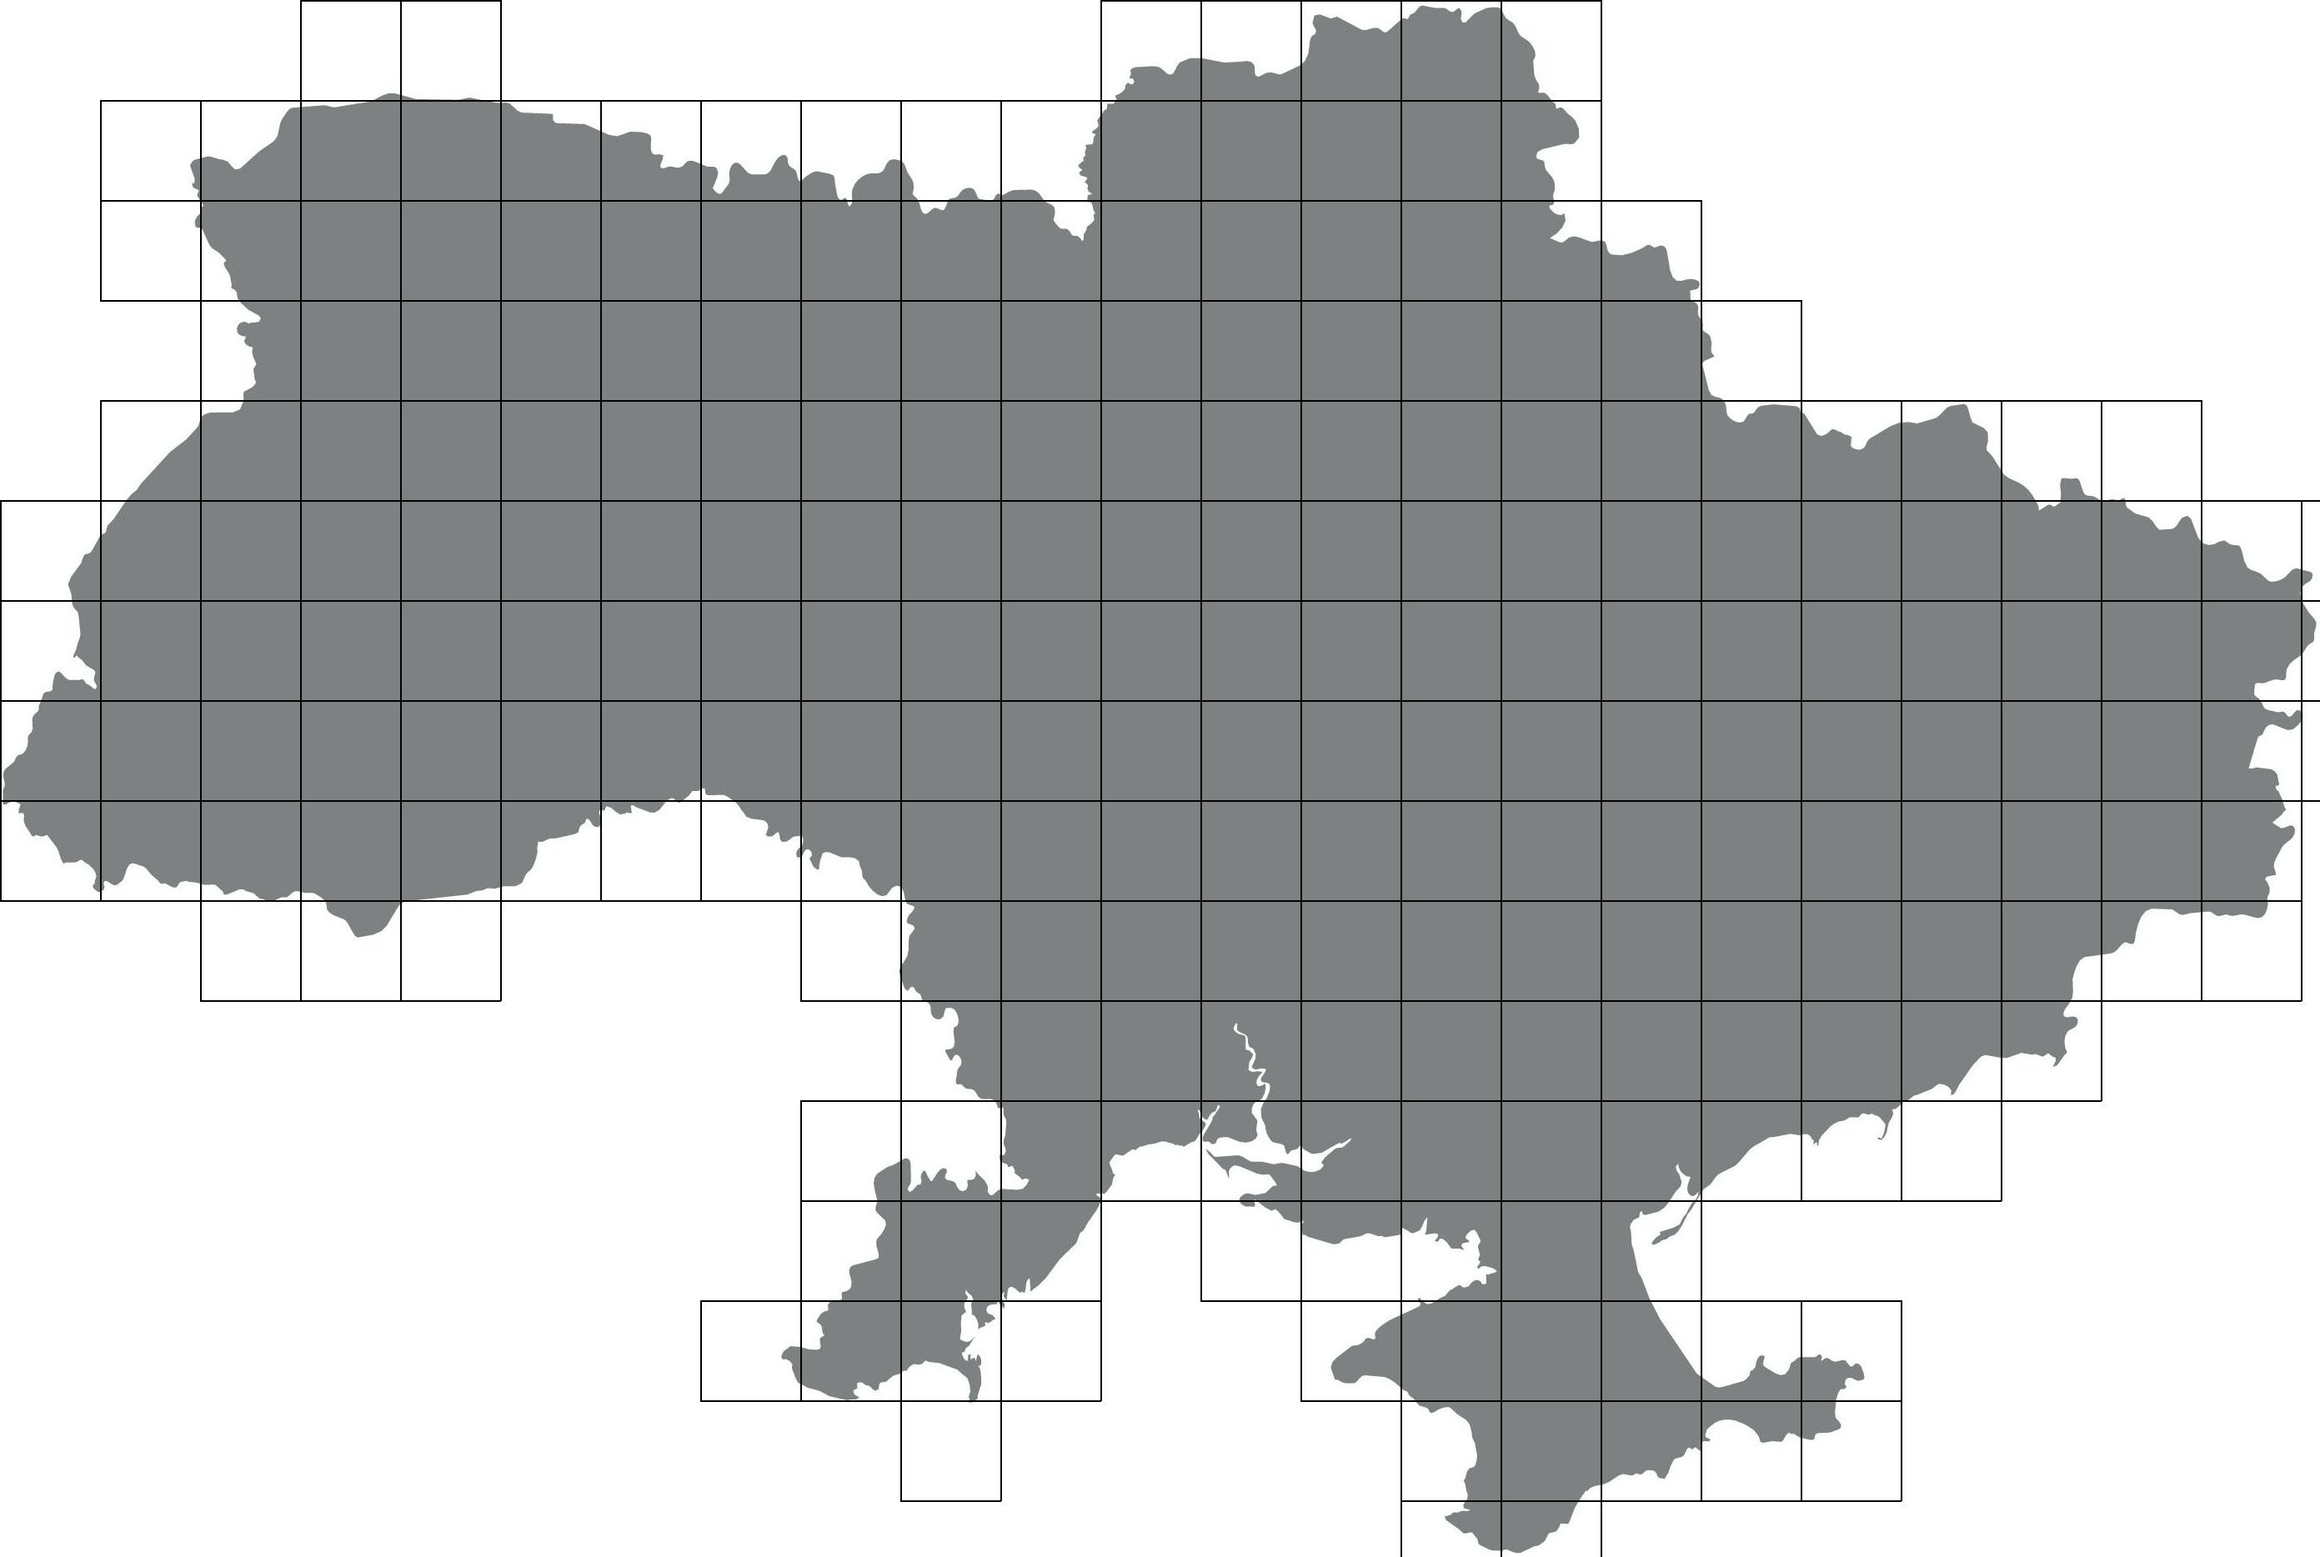
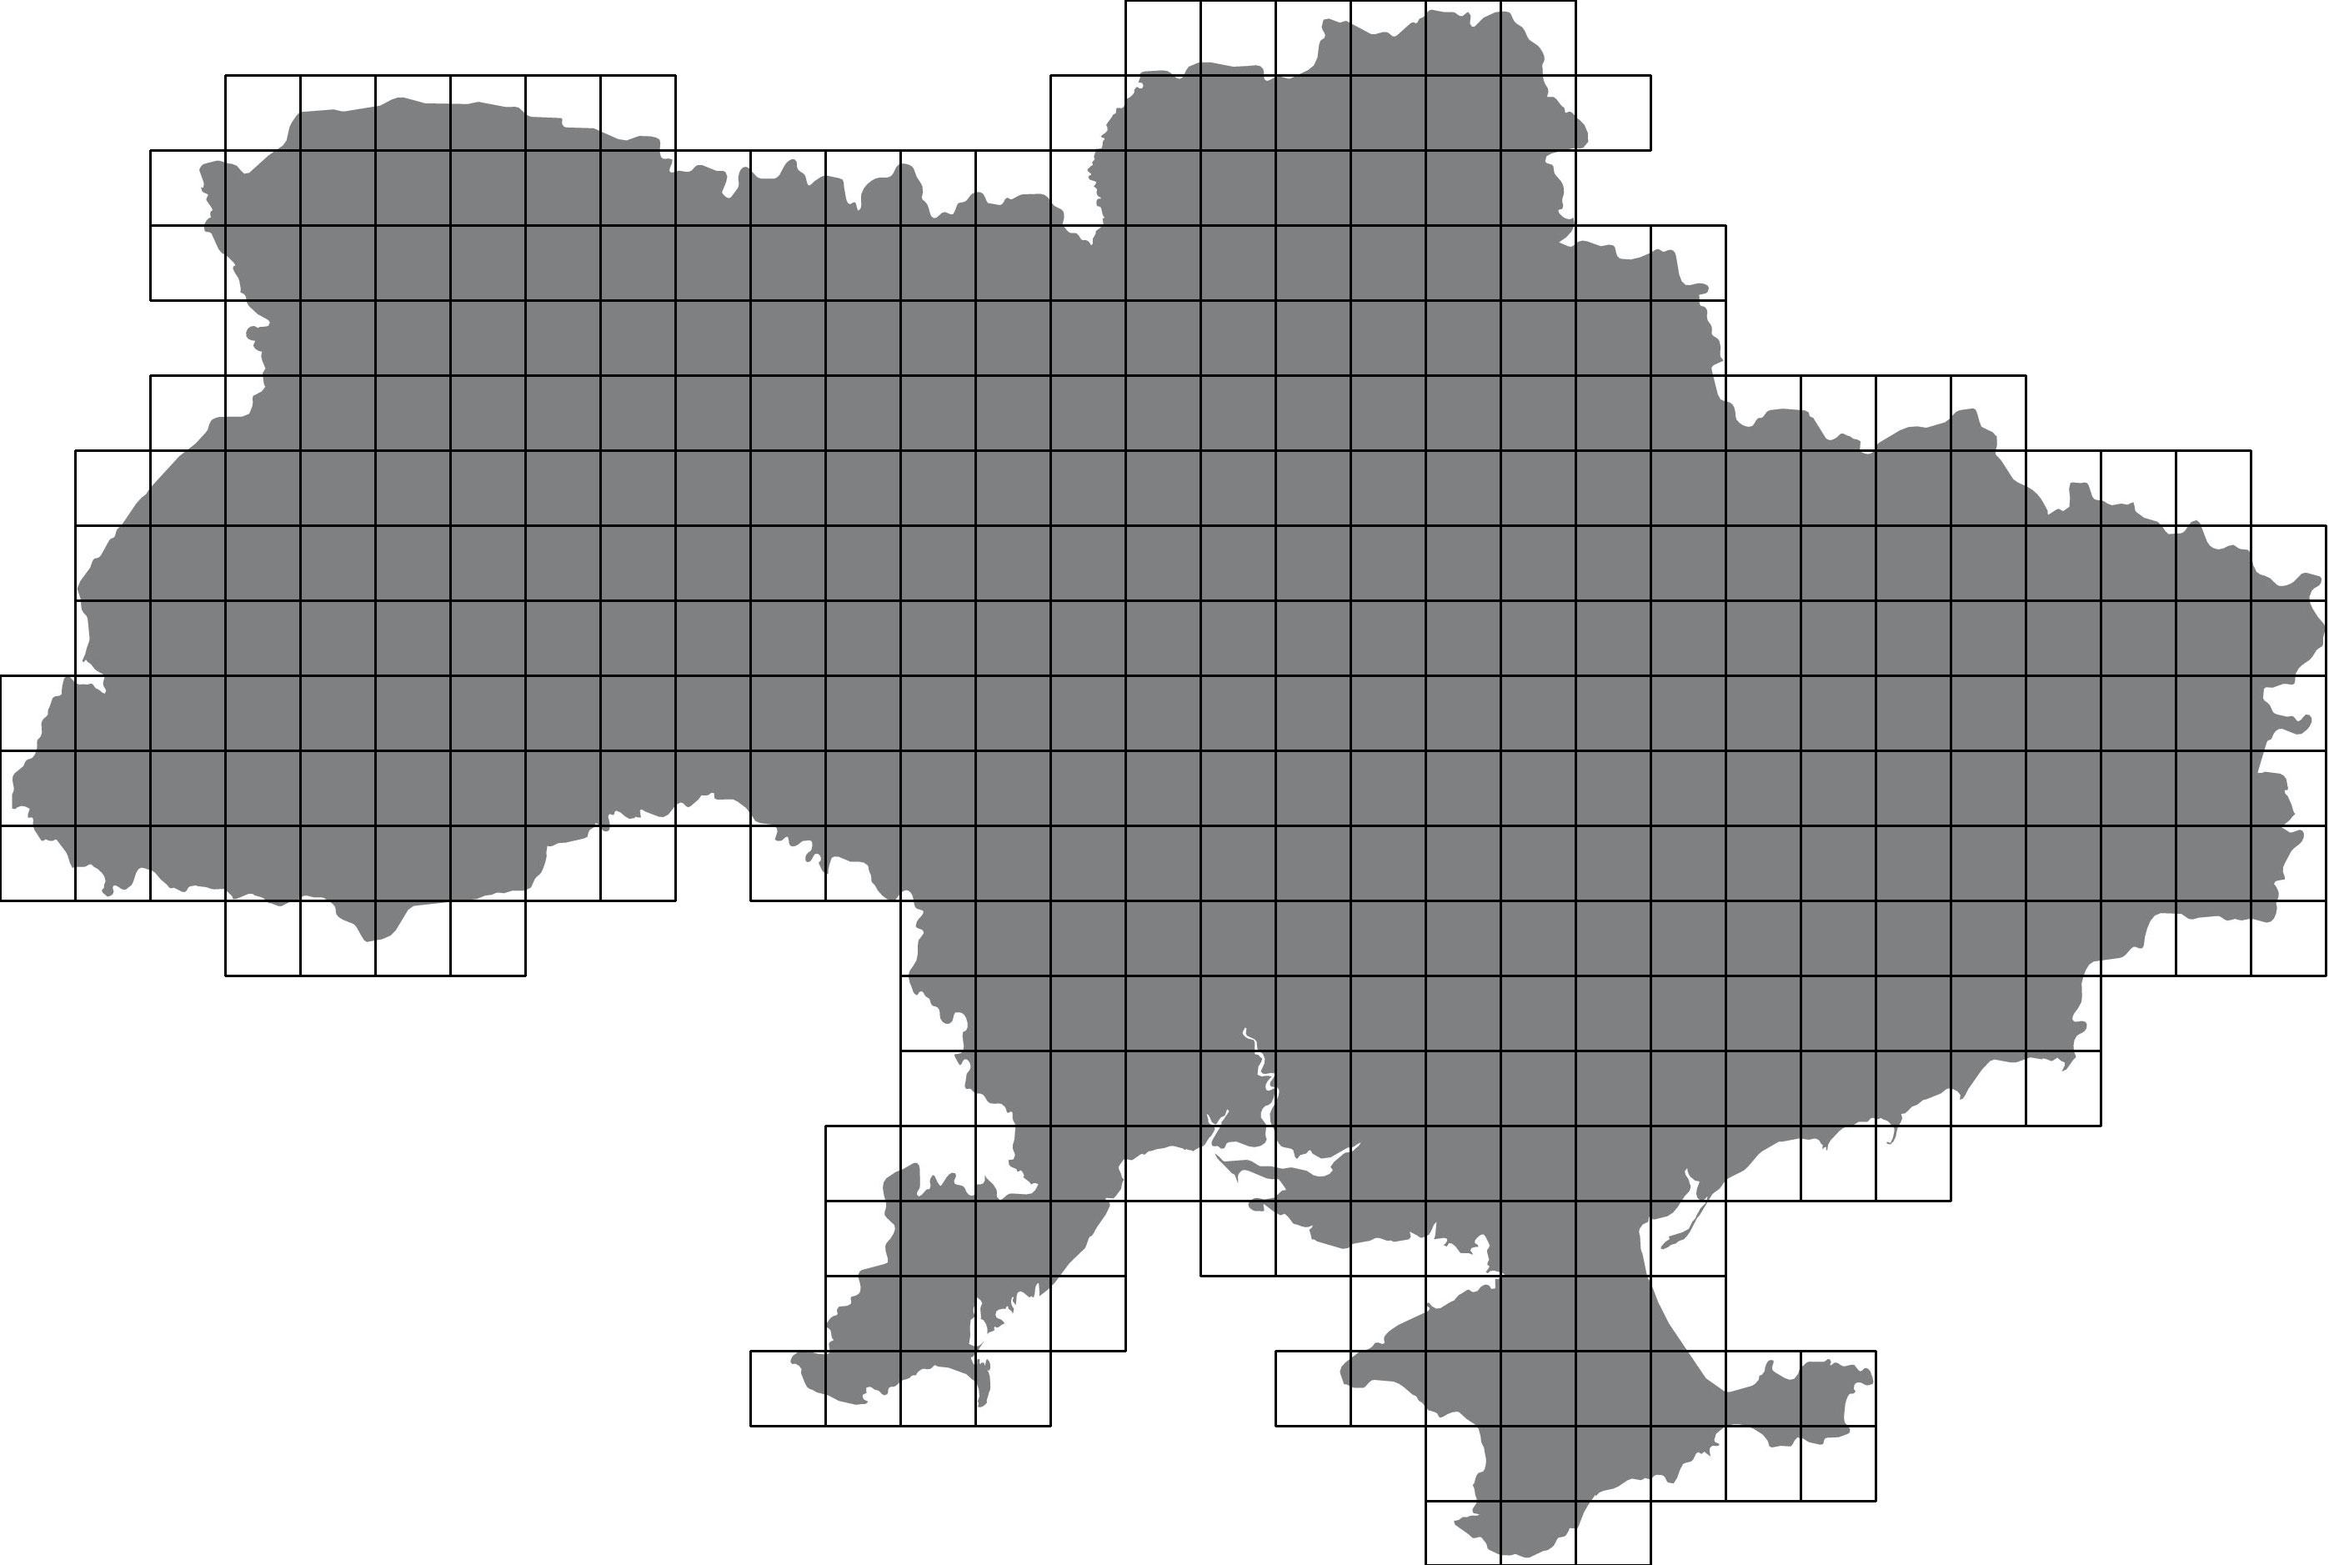
Change example picture, change line width

Changed region(s): [[0.0, 0.0, 1.0, 1.0]]

diff --git a/grid_approximator.py b/grid_approximator.py
@@ -40,7 +40,7 @@ def iterate_squares(im, step):
                 break
 
 
-def draw_squares(im, step, color, width=2):
+def draw_squares(im, step, color, width=3):
     draw = ImageDraw.Draw(im)
     for (w1, w2), (h1, h2) in iterate_squares(im, step):
         draw.line(((w1, h1), (w2, h1)), fill=color, width=width)
